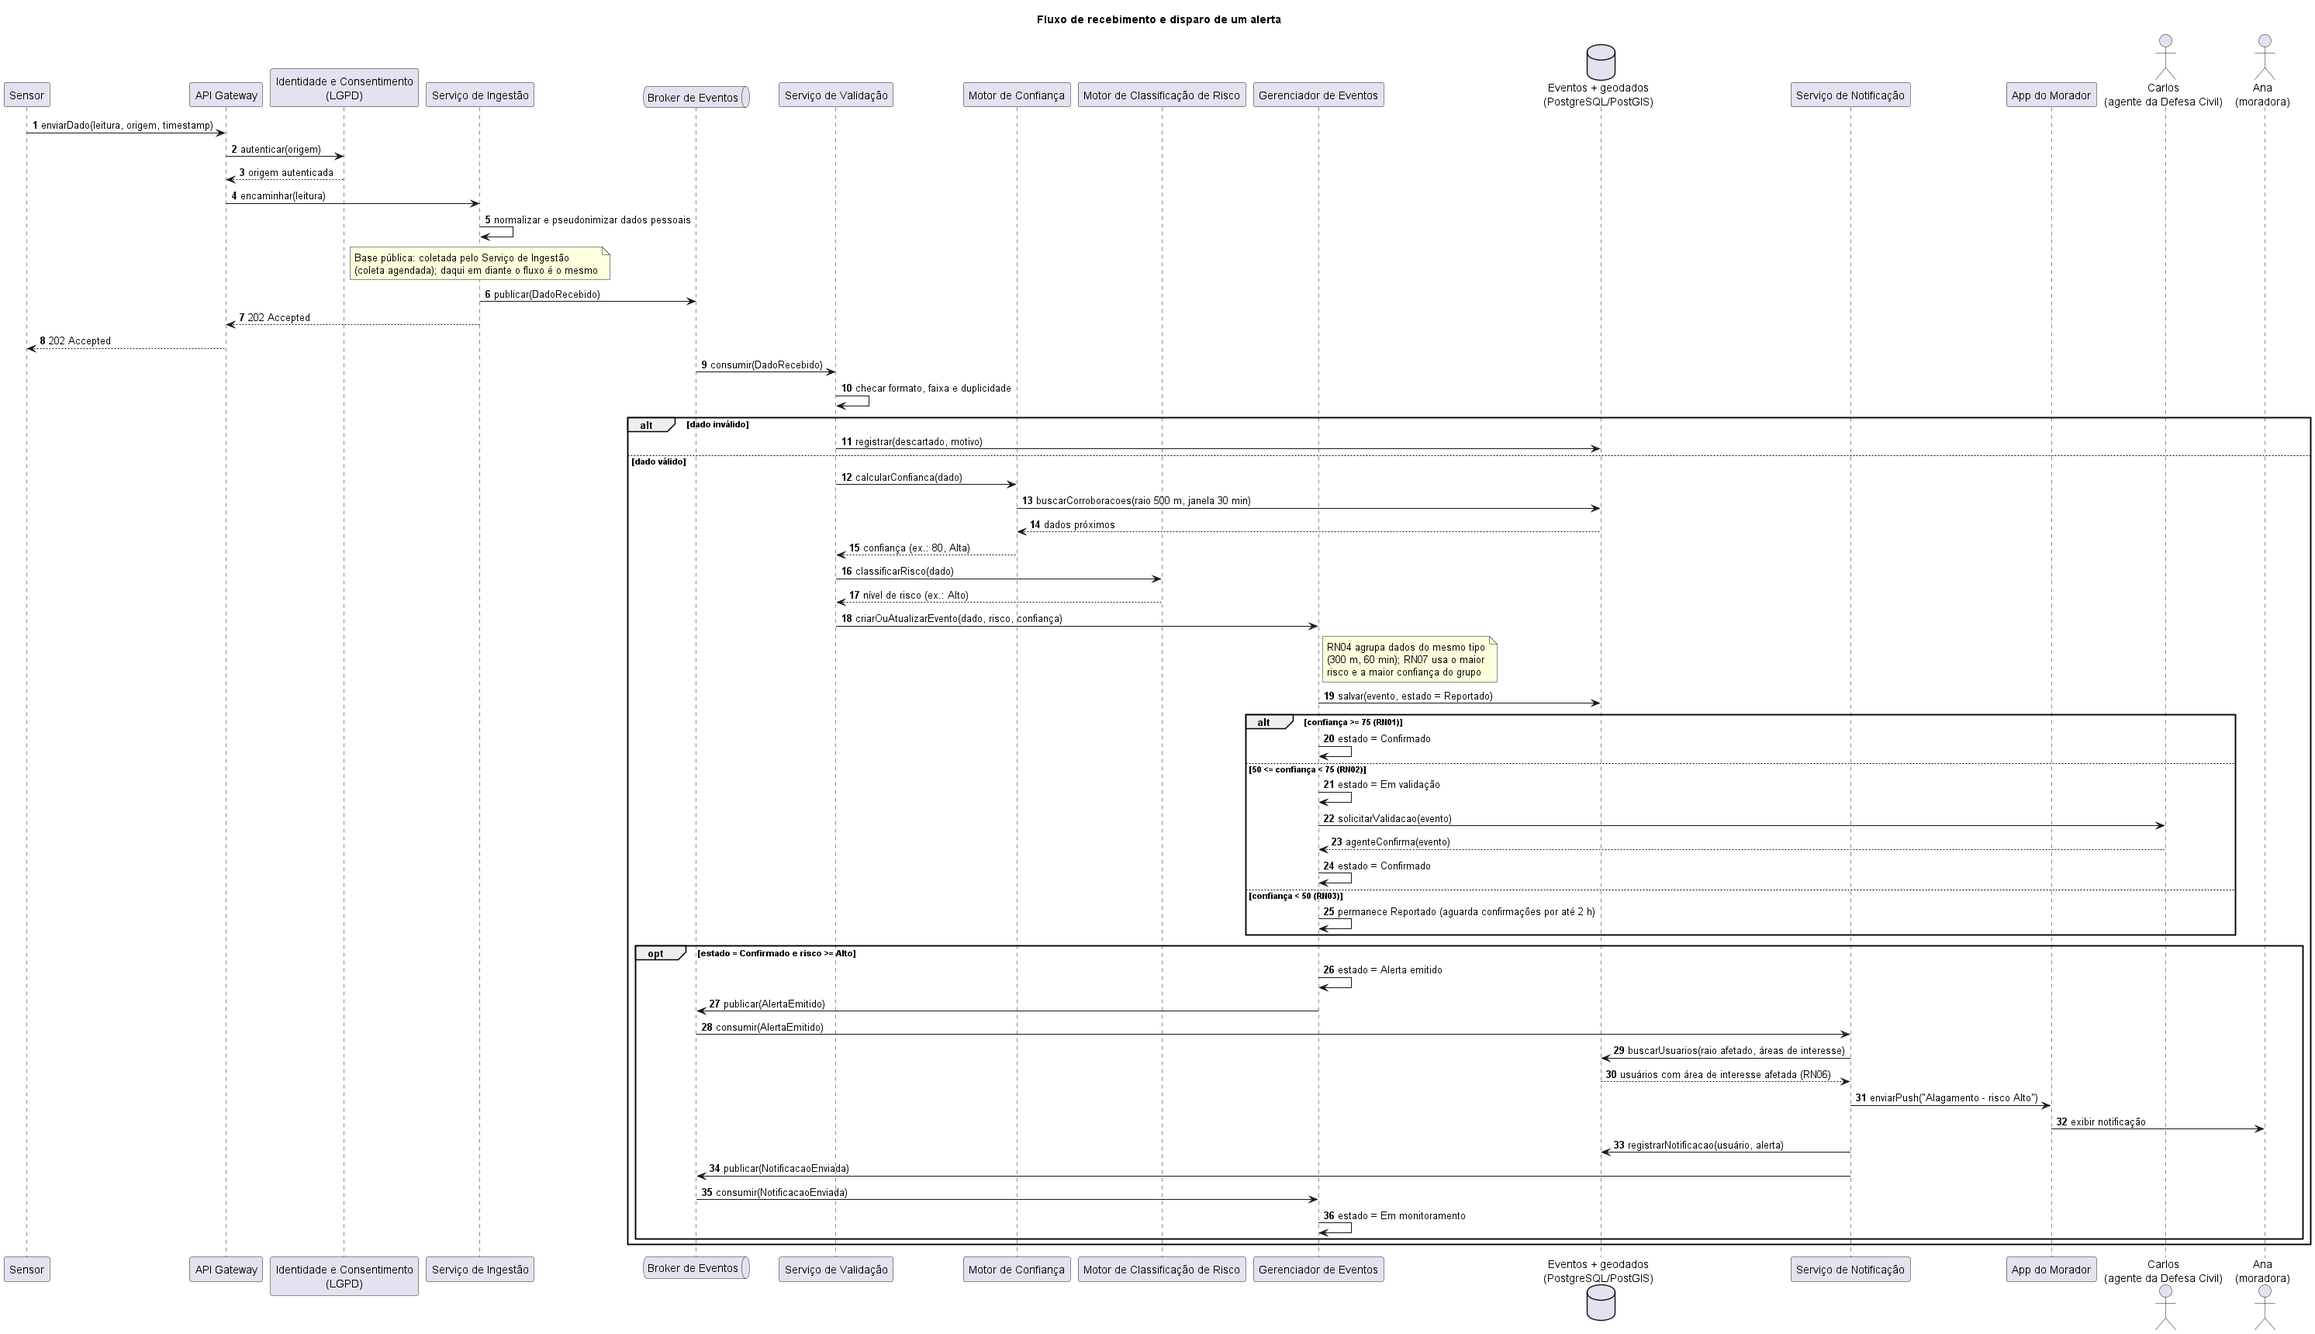
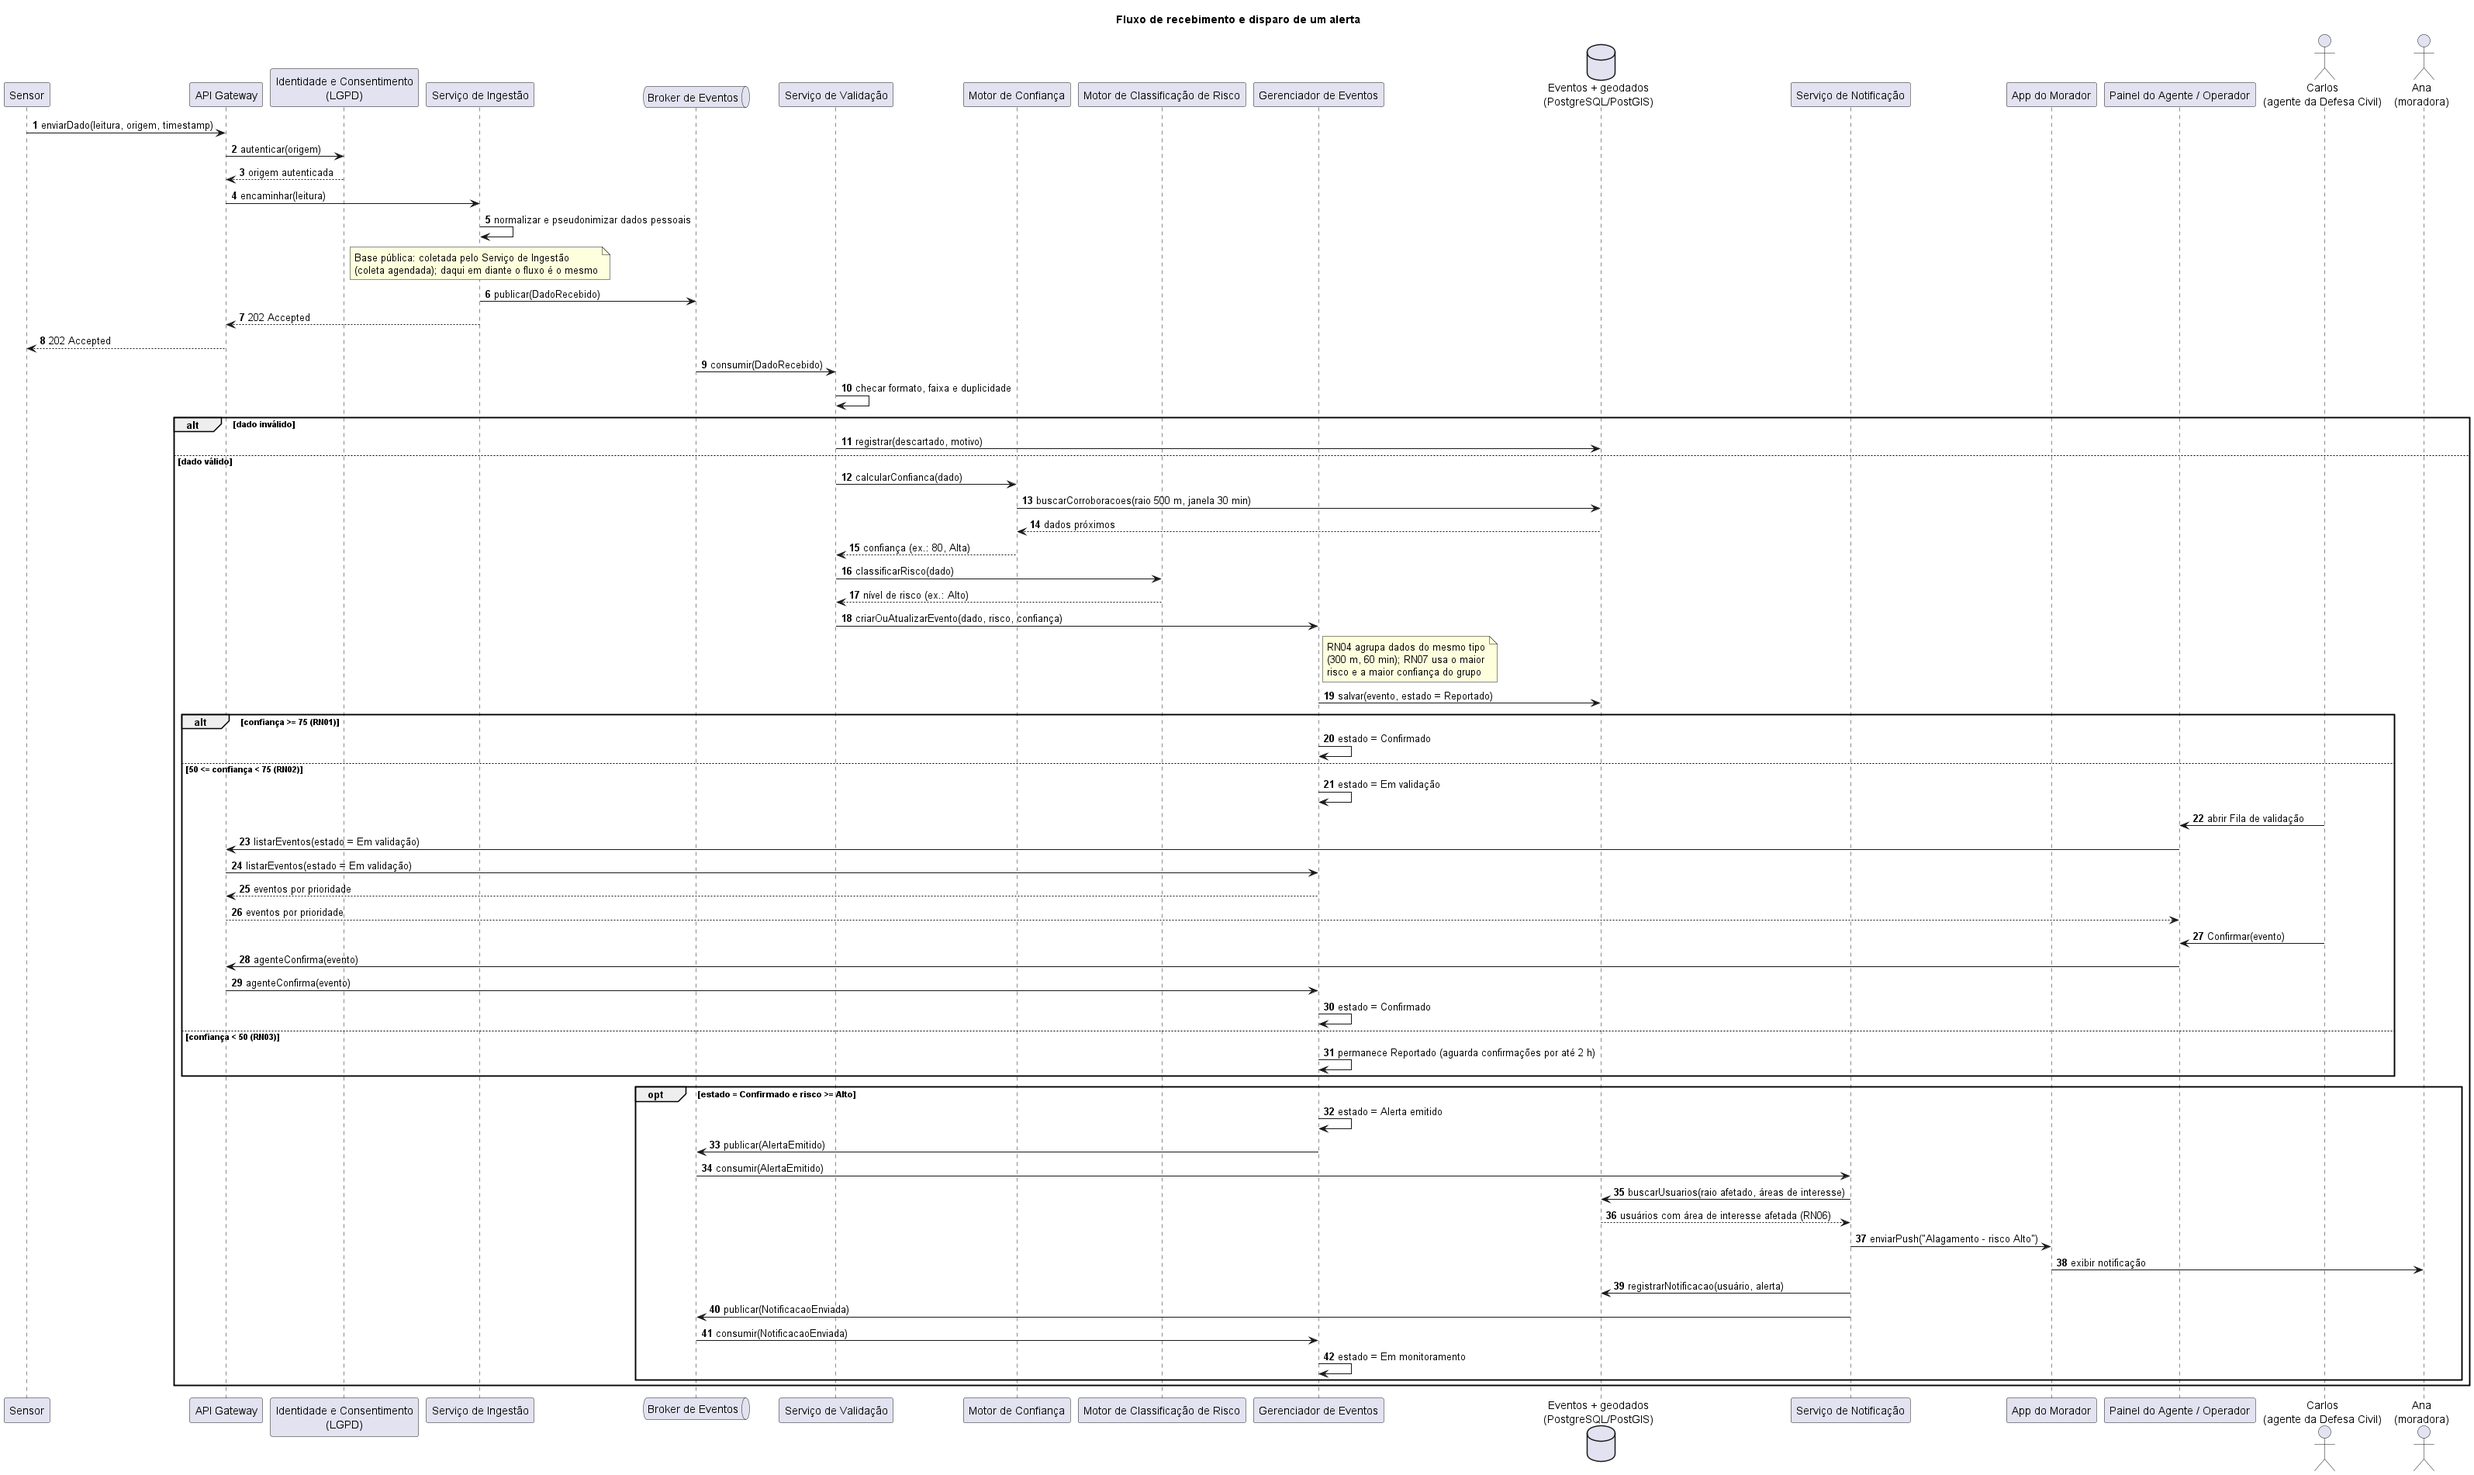
Fila de validação, Perfil e arquitetura de cima para baixo
- estados.puml: Em validação -> Confirmado também com confiança >= 75.
- Fila de validação lista só eventos Em validação (Confirmar, Descartar);
  Encerrar e Cancelar alerta ficam no Detalhe do alerta.
- RNF11: falso alerta conta só eventos que passaram por Alerta emitido.
- Perfil para todos (dados, Preferências, Privacidade, sair); morador
  também tem Meus registros.
- sequencia.puml: Carlos valida pelo Painel do Agente / Operador e API
  Gateway.
- arquitetura.puml: layout de cima para baixo (fontes e apresentação no
  topo, aplicação no meio, dados embaixo), setas Gateway -> Gerenciador
  de Eventos, Notificação -> Broker e Broker -> Gerenciador de Eventos.
- PNG dos três diagramas atualizados.

diff --git a/docs/01-requisitos.md b/docs/01-requisitos.md
@@ -31,19 +31,19 @@ evento que tem estado, risco, confiança e prioridade.
 | Tela | Conteúdo principal | RF | Perfil |
 | --- | --- | --- | --- |
 | Login / Cadastro | Escolha do perfil (morador, agente, operador), aceite de termos e consentimento LGPD | RF15, RF16 | Todos |
-| Preferências | Áreas de interesse por bairro ou por ponto no mapa com raio (ex.: 1 km), tipos de risco e canais de alerta | RF13 | Morador |
+| Preferências | Áreas de interesse por bairro ou por ponto no mapa com raio (ex.: 1 km), tipos de risco e canais de alerta | RF13 | Todos |
 | Painel | Mapa com eventos coloridos por risco, indicadores e filtros por tipo de risco e região | RF01, RF02, RF07 | Todos |
 | Lista de alertas | Cards ordenados por prioridade, com risco, estado, origem e confiança | RF08 | Todos |
-| Detalhe do alerta | Descrição, mapa, estado e risco; botão "Também vejo isso" (morador); botão "Cancelar alerta" (agente) | RF06, RF08, RF12, RF17 | Todos |
+| Detalhe do alerta | Descrição, mapa, estado e risco; botão "Também vejo isso" (morador); botões "Encerrar" e "Cancelar alerta" (agente) | RF06, RF08, RF12, RF17 | Todos |
 | Origem e confiança | Origem de cada dado, horário da última atualização e confiança com o cálculo explicado | RF01, RF02, RF05, RF09 | Todos |
 | Central de notificações | Histórico, lidas e não lidas, filtros por tipo (incluindo "Alerta cancelado") e link para o alerta | RF10, RF11 | Morador |
 | Registro comunitário | Tipo, localização automática, descrição e foto opcional, em até 3 passos | RF03 | Morador |
 | Meus registros | Estado de cada registro e confirmações recebidas | RF03, RF17 | Morador |
-| Fila de validação | Eventos por prioridade com os botões Confirmar, Descartar, Encerrar e Cancelar alerta | RF04, RF12 | Agente |
+| Fila de validação | Só eventos Em validação, por prioridade, com os botões Confirmar e Descartar | RF04, RF12 | Agente |
 | Análises | Gráficos por tipo de risco, região e período | RF14 | Agente, operador |
-| Privacidade e meus dados | Consentimentos, exportação dos dados e exclusão da conta | RF16 | Morador |
+| Privacidade e meus dados | Consentimentos, exportação dos dados e exclusão da conta | RF16 | Todos |
 | Publicar status | Serviço, área, situação, início, previsão de normalização, nº estimado de afetados e "atinge hospital, escola ou abastecimento crítico?" | RF18 | Operador |
-| Perfil | Atalhos: dados do usuário, Preferências, Meus registros, Privacidade e meus dados, sair | RF15 | Todos |
+| Perfil | Atalhos: dados do usuário, Preferências, Privacidade e meus dados e sair; o morador também tem Meus registros | RF15 | Todos |
 
 ## 2. Requisitos funcionais
 
@@ -70,14 +70,16 @@ evento que tem estado, risco, confiança e prioridade.
 | RF13 | O sistema deve permitir que o usuário defina áreas de interesse por bairro ou por ponto no mapa com raio (ex.: 1 km), além de tipos de risco e canais de alerta. | Média      | Ana             | Preferências                                       |
 | RF14 | O sistema deve gerar análises históricas de eventos por tipo de risco, região e período.                                                                | Média      | Carlos, Juliana | Análises                                           |
 | RF15 | O sistema deve autenticar usuários e aplicar perfis de acesso (morador, agente, operador).                                                              | Alta       | Todas           | Login / Cadastro, Perfil                           |
-| RF16 | O sistema deve permitir que o titular consulte, exporte e exclua seus dados pessoais e revogue consentimentos.                                          | Média      | Ana             | Login / Cadastro, Privacidade e meus dados         |
+| RF16 | O sistema deve permitir que o titular consulte, exporte e exclua seus dados pessoais e revogue consentimentos.                                          | Média      | Todas           | Login / Cadastro, Privacidade e meus dados         |
 | RF17 | O sistema deve permitir que outros moradores confirmem uma ocorrência já registrada.                                                                    | Baixa      | Ana             | Detalhe do alerta, Meus registros                  |
 | RF18 | O sistema deve permitir que o operador publique o status de uma interrupção de serviço, com serviço afetado, área, situação, início, previsão de normalização, número estimado de afetados e se atinge hospital, escola ou abastecimento crítico. | Média      | Juliana         | Publicar status                                    |
 
 **Sobre o RF12:** cancelar um alerta leva o evento de **Alerta emitido** ou de **Em monitoramento**
 para **Descartado**, e quem
 recebeu o alerta é avisado com uma notificação do tipo "Alerta cancelado" (RF10, RF11). Esses
-cancelamentos são a base da medição de falso alerta do RNF11.
+cancelamentos são a base da medição de falso alerta do RNF11. Confirmar e Descartar ficam na Fila
+de validação, que lista só eventos Em validação; Encerrar e Cancelar alerta ficam no Detalhe do
+alerta.
 
 **Sobre o RF18:**
 
@@ -112,7 +114,7 @@ subcaracterística; por isso, o requisito de escalabilidade (RNF05) é classific
 | RNF08 | Segurança (Confidencialidade)                          | **LGPD:** dados pessoais devem ser criptografados, e a localização de quem registra uma ocorrência não pode ser exibida com precisão no mapa público. | TLS 1.2+ em trânsito; AES-256 em repouso; localização pública arredondada para ~100 m.                           |
 | RNF09 | Segurança (Responsabilização, Autenticidade)           | Todo acesso a dados pessoais deve ser registrado, e todo consentimento deve ser guardado com data e finalidade.                                       | 100% dos acessos em log de auditoria; retenção dos logs por 12 meses.                                            |
 | RNF10 | Portabilidade (Adaptabilidade)                         | A interface deve ser responsiva e funcionar em navegadores de celular e de desktop.                                                                   | Funciona nas 2 últimas versões de Chrome, Safari e Firefox, em telas de 360 px a 1920 px de largura.             |
-| RNF11 | Adequação funcional (Correção funcional)               | **Qualidade dos alertas:** os alertas emitidos devem ser corretos e baseados em dados confiáveis.                                                     | Falsos alertas ≤ 10%, sendo falso alerta = alertas que foram para Descartado ÷ alertas emitidos; ≥ 90% dos alertas de risco Alto ou Crítico com confiança Alta (≥ 75). |
+| RNF11 | Adequação funcional (Correção funcional)               | **Qualidade dos alertas:** os alertas emitidos devem ser corretos e baseados em dados confiáveis.                                                     | Falsos alertas ≤ 10%, sendo falso alerta = eventos que passaram por Alerta emitido e foram para Descartado ÷ alertas emitidos; ≥ 90% dos alertas de risco Alto ou Crítico com confiança Alta (≥ 75). |
 
 **Cobertura dos temas obrigatórios:** tempo de atualização (RNF01, RNF02), disponibilidade (RNF03,
 RNF04), escalabilidade (RNF05), usabilidade (RNF06, RNF07) e segurança/LGPD (RNF08, RNF09).

diff --git a/CLAUDE.md b/CLAUDE.md
@@ -85,7 +85,8 @@ a inundações do SGB (Barueri, 2017).
   Duração = previsão − início; se a previsão já passou, vale o tempo decorrido desde o início.
   "Normalizado" leva o risco a Baixo, e a RN05 encerra o evento em 30 min.
 - Cancelar alerta (agente, RF12): Alerta emitido ou Em monitoramento → Descartado, com notificação "Alerta cancelado".
-  Falso alerta (RNF11) = alertas que foram para Descartado ÷ alertas emitidos; meta ≤ 10%.
+  Falso alerta (RNF11) = eventos que passaram por Alerta emitido e foram para Descartado ÷ alertas emitidos; meta ≤ 10%.
+- Fila de validação lista só eventos Em validação (Confirmar, Descartar). Encerrar e Cancelar alerta ficam no Detalhe do alerta.
 - Áreas de interesse (RF13): por bairro ou por ponto no mapa com raio (ex.: 1 km).
 - Faixas de risco usam ≥ e < (sem lacunas); se dois critérios se aplicam, vale o nível mais alto.
 - Prioridade P = R × 25 × (C/100) + V, com R = 1..4 (Baixo..Crítico), C = confiança, V = +10 área vulnerável
@@ -111,7 +112,8 @@ devem implementar exatamente essas regras. Se uma regra mudar, mude o documento 
   - Morador: Painel, Alertas, Registrar, Notificações, Perfil.
   - Agente: Painel, Fila de validação, Alertas, Análises, Perfil.
   - Operador: Painel, Publicar status, Alertas, Análises, Perfil.
-- Perfil (RF15): atalhos para dados do usuário, Preferências, Meus registros, Privacidade e meus dados e sair.
+- Perfil (RF15), para todos: dados do usuário, Preferências, Privacidade e meus dados (todos são titulares na LGPD)
+  e sair. O morador também tem Meus registros.
 - Dados realistas (bairros, horários, mm/h, °C). Nada de lorem ipsum.
 
 ## Antes de dizer que uma tarefa terminou

diff --git a/docs/00-problema-personas.md b/docs/00-problema-personas.md
@@ -68,7 +68,7 @@ alertas e avisa só quem está na área afetada, sempre mostrando a **origem** d
 | **Perfil**                     | 45 anos, agente da Defesa Civil de Barueri, coordena uma equipe de campo.                                                                       |
 | **Objetivo**                   | Saber rapidamente onde está o risco mais grave e mais confiável, para deslocar a equipe certa.                                                  |
 | **Dores**                      | Recebe muitos relatos duplicados ou falsos. Os dados de sensores e os relatos de moradores ficam em lugares diferentes, e cruzá-los leva tempo. |
-| **O que a plataforma entrega** | Fila de validação ordenada por prioridade (risco × confiança), com a origem de cada dado. Confirma, descarta ou encerra eventos com um toque e cancela um alerta emitido por engano. |
+| **O que a plataforma entrega** | Fila de validação ordenada por prioridade (risco × confiança), com a origem de cada dado. Confirma ou descarta eventos na fila com um toque; no detalhe do alerta, encerra o evento ou cancela um alerta emitido por engano. |
 | **Fluxos no protótipo**        | Fluxo 3 (valida evento).                                                                                                                        |
 
 ### Juliana — operadora de serviço público
